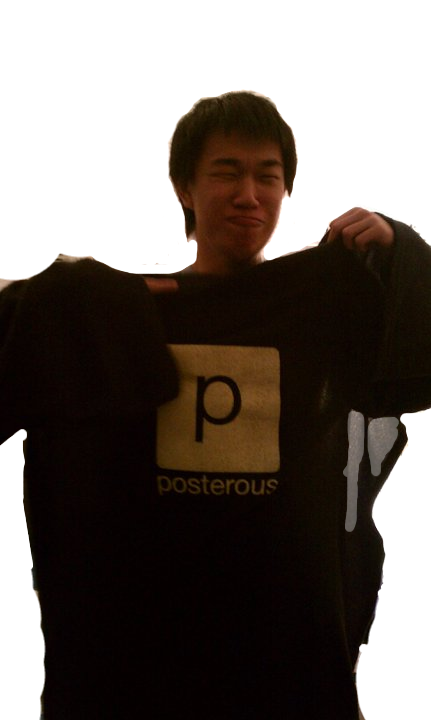
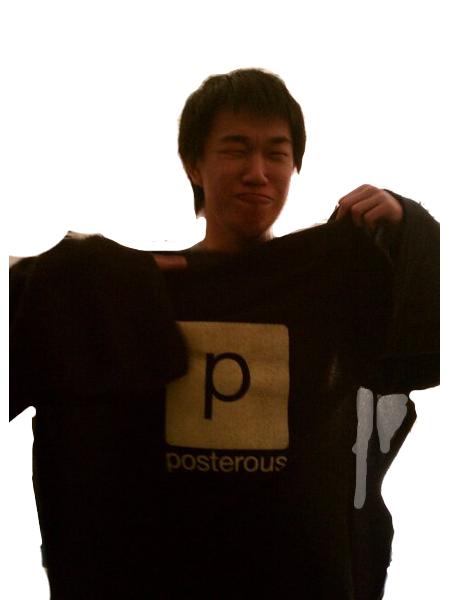
Background Person progress

Changed region(s): [[0.0, 0.09, 1.0, 1.0], [0.3619, 0.48, 0.6636, 0.81], [0.6334, 0.15, 0.6636, 0.18]]

diff --git a/nickville.js b/nickville.js
@@ -1,5 +1,5 @@
 (function() {
-  var changeControlState, chooseRandomFromList, completeDialogue, continueDialogue, encounterPerson, enterChatState, enterFreeState, followDialogue, getPossibleLinks, handleMessage, initializeGameData, setControls, setIndicatorArea, setLocationImage, setTravelList, setupPerson, startingSequence, testFunctions, travelToLocation, triggerChatBox;
+  var changeControlState, chooseRandomFromList, completeDialogue, continueDialogue, encounterPerson, enterChatState, enterFreeState, followDialogue, getPossibleLinks, handleMessage, initializeGameData, setControls, setIndicatorArea, setLocationImage, setPersonImage, setTravelList, setupPerson, startingSequence, testFunctions, travelToLocation, triggerChatBox;
   $(document).ready(function() {
     testFunctions();
     initializeGameData();
@@ -24,7 +24,21 @@
     $('#background_image').error(function() {
       return $(this).hide();
     });
-    return $('#background_image').hide();
+    $('#person_image').error(function() {
+      return $(this).hide();
+    });
+    $('#person_image').load(function() {
+      var name;
+      name = $('#person_image').attr('src');
+      console.log(name);
+      name = name.substr(name.lastIndexOf('/') + 1) || input;
+      name = name.substr(0, name.lastIndexOf('.')) || input;
+      console.log(name);
+      window.game_data['People'][name]['Width'] = $(this).width();
+      return window.game_data['People'][name]['Height'] = $(this).height();
+    });
+    $('#background_image').hide();
+    return $('#person_image').hide();
   };
   setControls = function() {
     var actions;
@@ -112,6 +126,7 @@
     console.log("Moving to " + location);
     window.game_state['location'] = location;
     setIndicatorArea(location);
+    setPersonImage(null);
     if (encounter_possible && Math.random() > 0.4) {
       encounterPerson(location);
     }
@@ -139,12 +154,8 @@
     return _results;
   };
   setLocationImage = function(location) {
-    try {
-      $('#background_image').attr('src', "images/" + location + ".jpg");
-      return $('#background_image').show();
-    } catch (error) {
-      return $('#background_image').hide();
-    }
+    $('#background_image').attr('src', "images/" + location + ".jpg");
+    return $('#background_image').show();
   };
   encounterPerson = function(location) {
     var person, possible_people;
@@ -160,7 +171,18 @@
     setIndicatorArea(person);
     possible_dialogue = window.game_data['People'][person]['Dialogue'];
     dialogue = chooseRandomFromList(possible_dialogue);
+    setPersonImage(person);
     return followDialogue(dialogue);
+  };
+  setPersonImage = function(person) {
+    if (person === null) {
+      $('#person_image').hide();
+      return;
+    }
+    $('#person_image').attr('src', "images/" + person + ".png");
+    $('#person_image').show();
+    $('#person_image').width(window.game_data['People'][person]['Width']);
+    return $('#person_image').height(window.game_data['People'][person]['Height']);
   };
   chooseRandomFromList = function(list) {
     return list[parseInt(Math.random() * list.length)];

diff --git a/index.html b/index.html
@@ -12,6 +12,7 @@
 
       <div id="background_container" class="background">
         <img src="#" id="background_image" class="background"></img>
+        <img src="#" id="person_image" class="background"></img>
       </div>
 
       <div id="status_container" class="container free">
